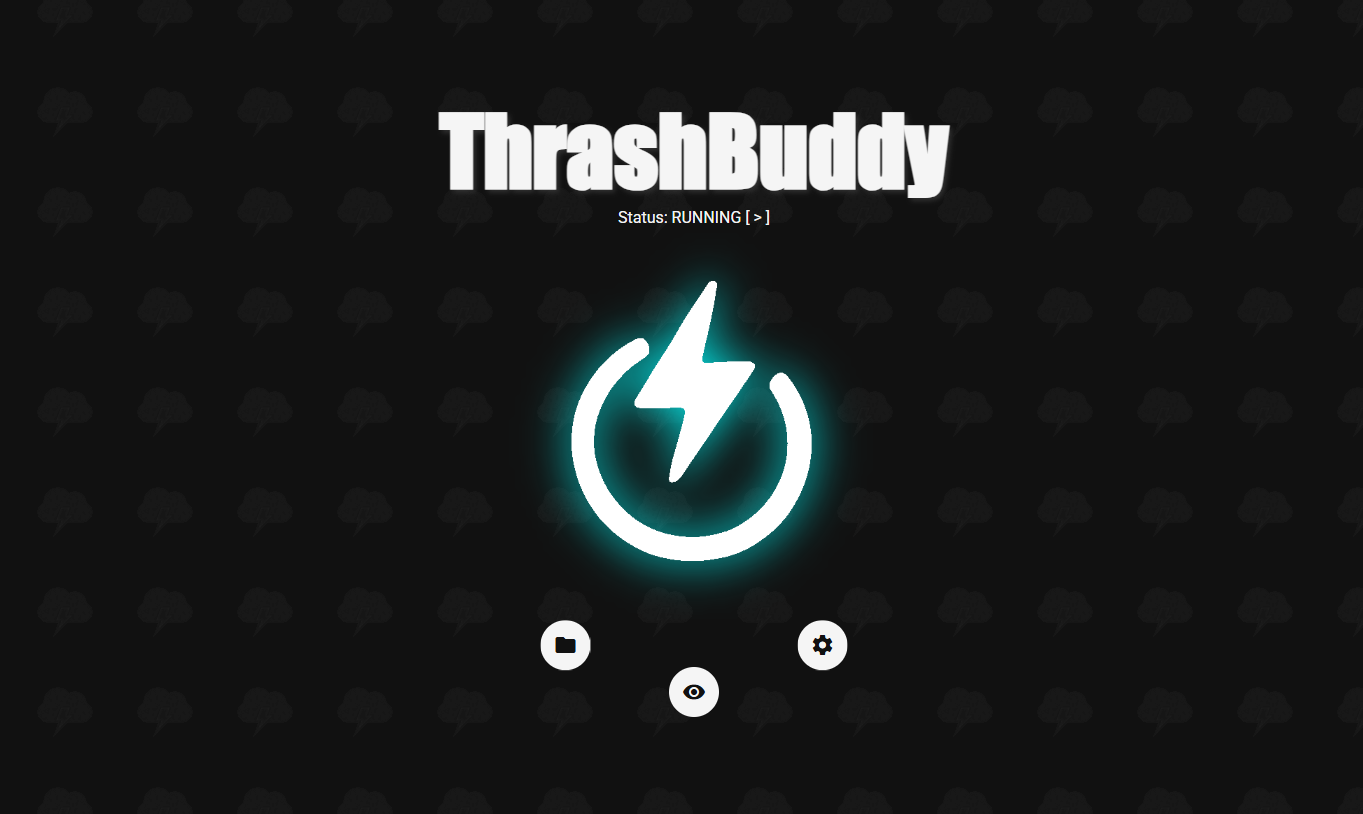
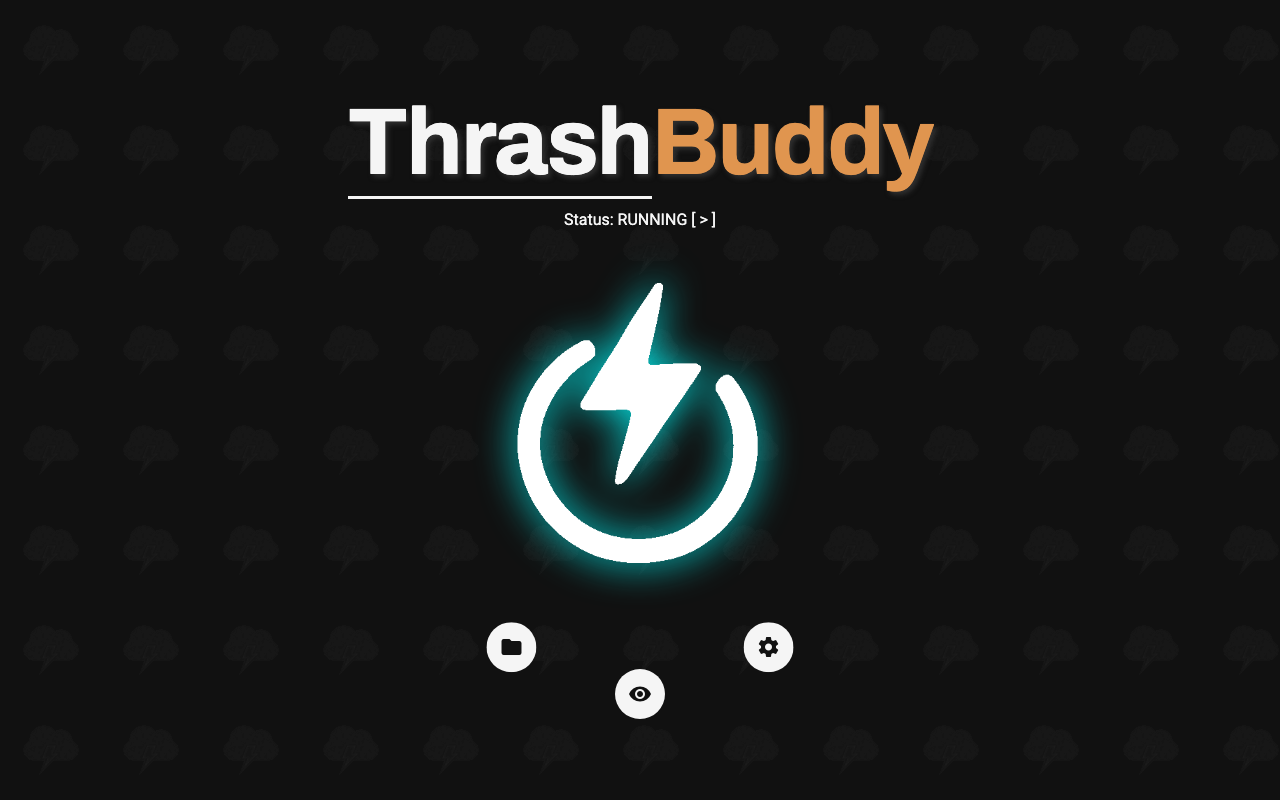
Update README screenshots to match current UI (#351)
Screenshots were still showing the old light-themed settings panel
and unstyled wordmark. Also drops the outdated logo/animation assets
that no longer matched the current branding.

diff --git a/README.md b/README.md
@@ -1,7 +1,5 @@
 # ThrashBuddy
 
-<img src="docs/images/logo.jpg" alt="Logo" width="300" height="300">
-
 **_Thrash your Web-App until it hurts._**
 
 ---
@@ -21,10 +19,9 @@ This setup provides a robust and automated performance testing platform by:
 
 By adopting this approach, teams can validate performance early and often in the development lifecycle—reducing the risk of production failures and improving user satisfaction.
 
-<img src="docs/images/animation.gif" alt="start-stop-animation" width="500" />
-<img src="docs/images/screenshot.png" alt="Screenshot1" width="500" />
-<img src="docs/images/screenshot2.png" alt="Screenshot2" width="500" />
-<img src="docs/images/screenshot3.png" alt="Screenshot3" width="500" />
+<img src="docs/images/screenshot.png" alt="Running a test" width="500" />
+<img src="docs/images/screenshot2.png" alt="Settings panel" width="500" />
+<img src="docs/images/screenshot3.png" alt="Grafana dashboard" width="500" />
 
 ### Technology Map
 
